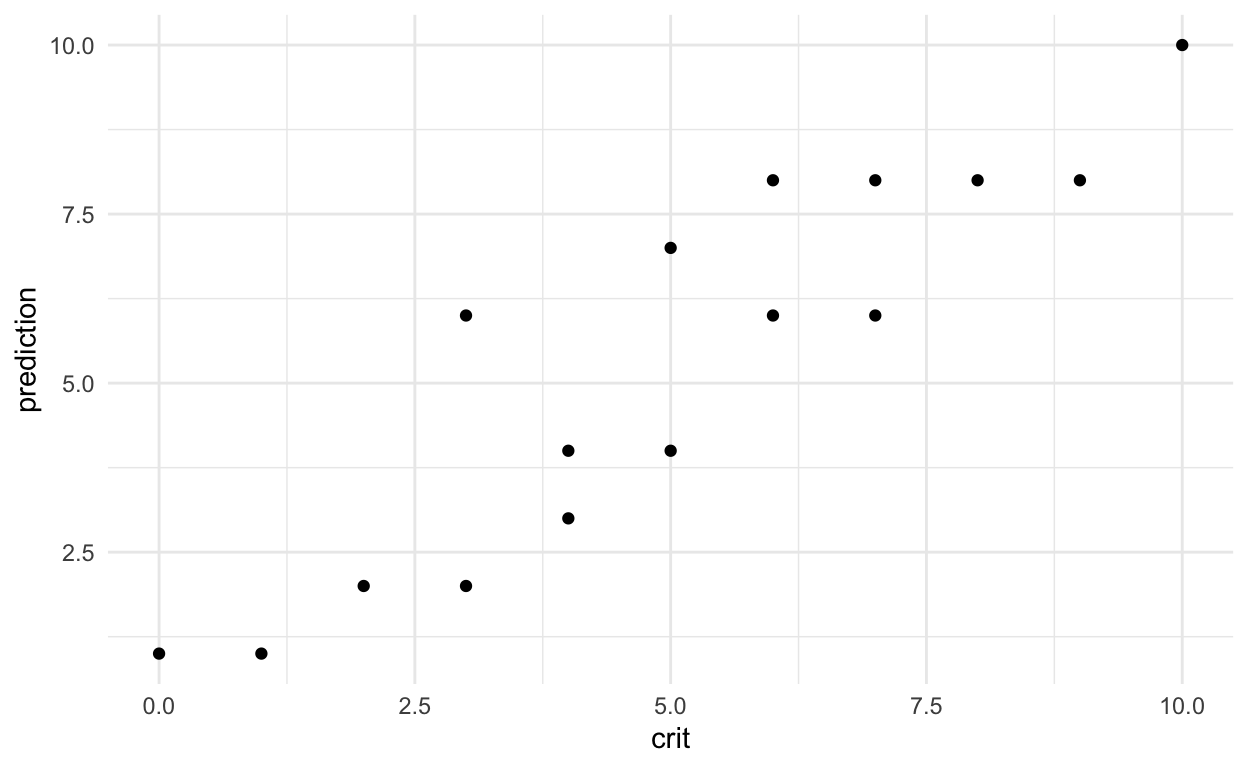
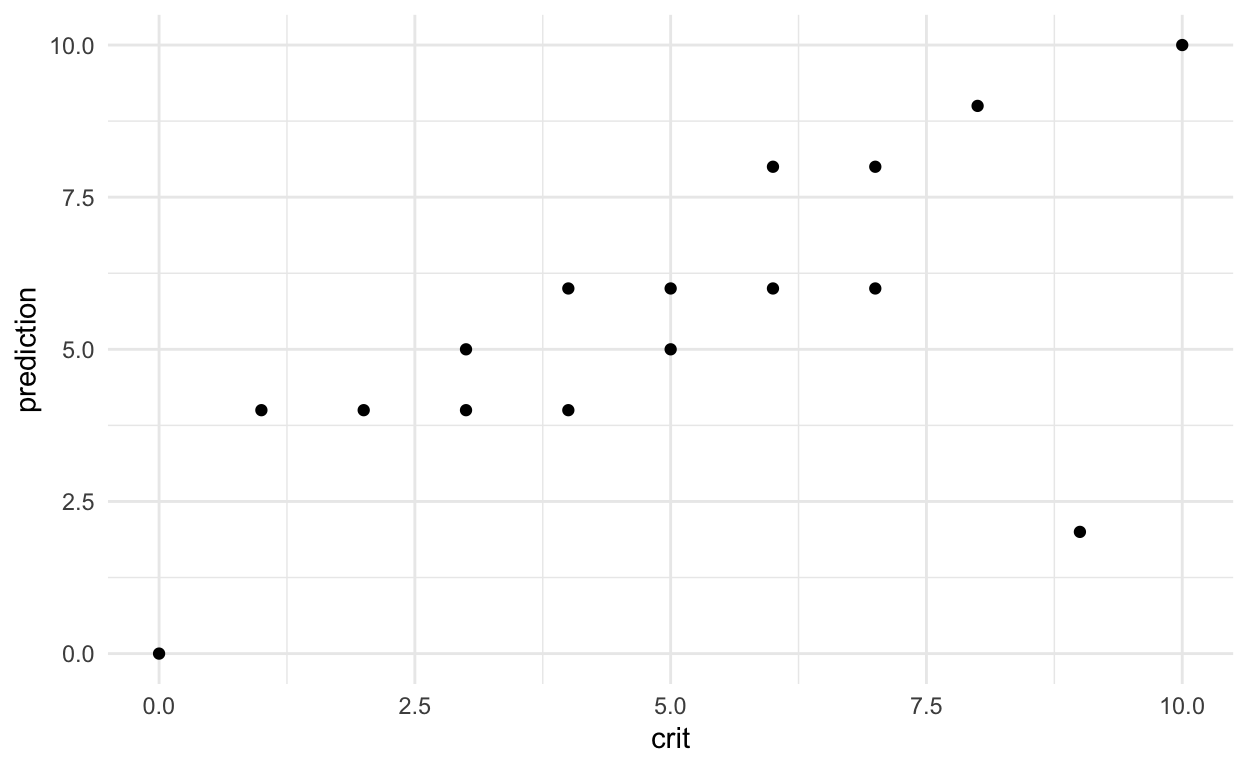
update exercise1

diff --git a/docs/lens_model.html b/docs/lens_model.html
@@ -2139,7 +2139,7 @@ Sessions
 <p>I have uploaded the data on github so R can read the file directly from there.</p>
 <div class="layout-chunk" data-layout="l-body">
 <div class="sourceCode">
-<pre class="sourceCode r"><code class="sourceCode r"><span class='va'>data</span> <span class='op'>&lt;-</span> <span class='fu'><a href='https://rdrr.io/r/utils/read.table.html'>read.csv</a></span><span class='op'>(</span><span class='fu'><a href='https://rdrr.io/r/base/connections.html'>url</a></span><span class='op'>(</span><span class='st'>"https://github.com/matarui/ebdm/raw/main/docs/materials/data.csv"</span><span class='op'>)</span><span class='op'>)</span>
+<pre class="sourceCode r"><code class="sourceCode r"><span class='va'>data</span> <span class='op'>&lt;-</span> <span class='fu'><a href='https://rdrr.io/r/utils/read.table.html'>read.csv</a></span><span class='op'>(</span><span class='fu'><a href='https://rdrr.io/r/base/connections.html'>url</a></span><span class='op'>(</span><span class='st'>"https://github.com/matarui/ebdm/raw/main/materials/data.csv"</span><span class='op'>)</span><span class='op'>)</span>
 </code></pre>
 </div>
 </div>
@@ -2160,7 +2160,7 @@ Sessions
 <div class="layout-chunk" data-layout="l-body">
 <div class="sourceCode">
 <pre class="sourceCode r"><code class="sourceCode r"><span class='va'>mydata</span><span class='op'>&lt;-</span><span class='va'>data</span> <span class='op'><a href='https://magrittr.tidyverse.org/reference/pipe.html'>%&gt;%</a></span> 
-  <span class='fu'><a href='https://dplyr.tidyverse.org/reference/filter.html'>filter</a></span><span class='op'>(</span><span class='va'>code</span><span class='op'>==</span><span class='st'>"JW2648"</span><span class='op'>)</span> 
+  <span class='fu'><a href='https://dplyr.tidyverse.org/reference/filter.html'>filter</a></span><span class='op'>(</span><span class='va'>code</span><span class='op'>==</span><span class='st'>"KMT"</span><span class='op'>)</span> 
 
 <span class='fu'><a href='https://ggplot2.tidyverse.org/reference/ggplot.html'>ggplot</a></span><span class='op'>(</span><span class='va'>mydata</span>,<span class='fu'><a href='https://ggplot2.tidyverse.org/reference/aes.html'>aes</a></span><span class='op'>(</span>x<span class='op'>=</span><span class='va'>crit</span>,y<span class='op'>=</span><span class='va'>prediction</span><span class='op'>)</span><span class='op'>)</span> <span class='op'>+</span>
   <span class='fu'><a href='https://ggplot2.tidyverse.org/reference/geom_point.html'>geom_point</a></span><span class='op'>(</span><span class='op'>)</span> <span class='op'>+</span>
